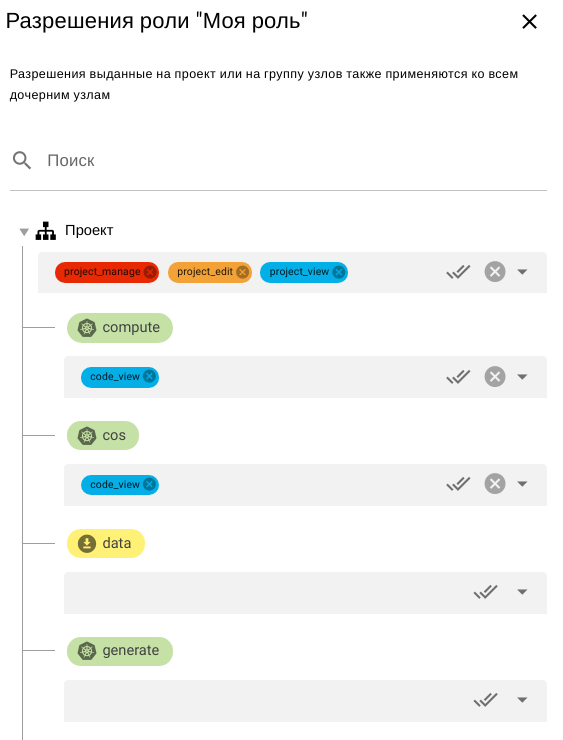
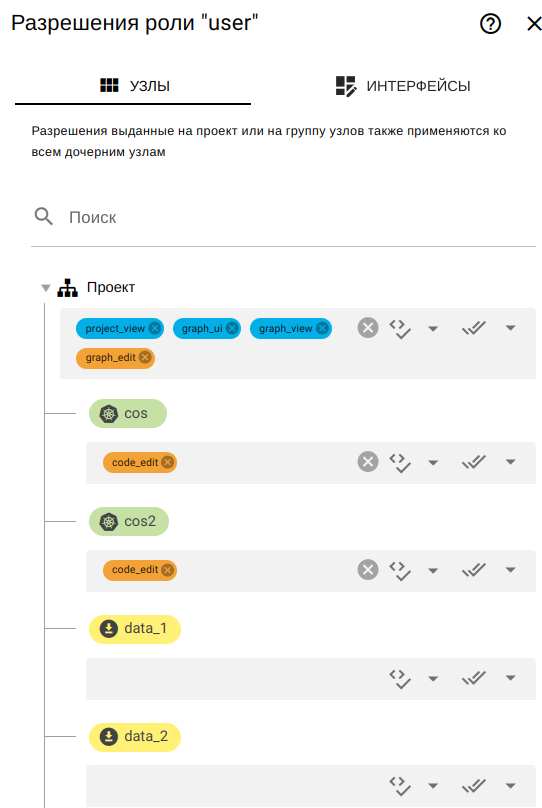
Update permissions info

diff --git a/src/desc/project_role.md b/src/desc/project_role.md
@@ -7,7 +7,62 @@
 ## Структyра панели
 
 - Список [плиток](#плитка-роли) имеющихся ролей
-- <span class="iconify-inline" data-icon="mdi:account-alert"></span> Запросы на получение доступа к платной роли
+- <span class="iconify-inline" data-icon="mdi:account-alert"/> Запросы на получение доступа к платной роли
+
+## Плитка роли
+
+![Resources](/images/common/permissions_role_panel.png)
+
+1. Редактируемое название
+2. Редактируемое описание
+3. Стоимостной коэффициент - редактируемый коэффициент стоимости
+4. <span class="iconify-inline" data-icon="mdi:shield-edit"></span> "РАЗРЕШЕНИЯ" - управления [разрешениями](#типы-разрешении)
+5. <span class="iconify-inline" data-icon="mdi:eye"></span> - переключатель общедоступности
+6. <span class="iconify-inline" data-icon="mdi:currency-usd"></span> - переключатель платности
+7. <span class="iconify-inline" data-icon="mdi:delete"></span> - кнопка удаления роли
+
+## Диалог управления разрешениями
+
+Установка необходимых [типов разрешений](#типы-разрешении) для доступа к проекту, отдельным узлам и интерфейсам.
+
+Вкладки:
+
+- <span class="iconify-inline" data-icon="mdi:view-module"/> Узлы - управление разрешениями для узлов
+- <span class="iconify-inline" data-icon="mdi:view-dashboard-edit"/>Интерфейсы - управление разрешениями для интерфейсов
+
+Вкладка <span class="iconify-inline" data-icon="mdi:view-module"/> Узлы:
+
+![Set permissions](/images/common/permissions_role_set_permissions.png)
+
+- <span class="iconify-inline" data-icon="mdi:magnify"/> Поиск- панель поиска/фильтрации
+- <span class="iconify-inline" data-icon="mdi:sitemap"/> Проект- разрешения уровня проекта
+- Список узлов с разрешениями
+
+Структура панели ввода разрешений:
+
+- Перечень установленных разрешений
+- <span class="iconify-inline" data-icon="mdi:code-tags-check"></span> - кнопка добавления/удаления разрешений по подтипам
+- <span class="iconify-inline" data-icon="mdi:check-all"></span> - кнопка добавления всех возможных разрешений
+- <span class="iconify-inline" data-icon="mdi:close-circle"></span> - кнопка удаления всех установленных разрешений
+- <span class="iconify-inline" data-icon="mdi:menu-down"></span> - меню выбора разрешений
+
+
+Вкладка <span class="iconify-inline" data-icon="mdi:view-dashboard-edit"/>Интерфейсы:
+
+![Set permissions](/images/common/permissions_role_set_permissions_interface.png)
+
+- <span class="iconify-inline" data-icon="mdi:magnify"/> Поиск - панель поиска/фильтрации
+- <span class="iconify-inline" data-icon="mdi:sitemap"/> Проект - разрешения уровня проекта
+- Список интерфейсов с разрешениями
+  > [Cкрытые с панели управления проектом][3] интерфейсы отображаются светло-серым цветом.
+
+Структура панели ввода разрешений:
+
+- Перечень установленных разрешений
+- <span class="iconify-inline" data-icon="mdi:code-tags-check"></span> - кнопка добавления/удаления разрешений для всех интерфейсов
+- <span class="iconify-inline" data-icon="mdi:check-all"></span> - кнопка добавления всех возможных разрешений
+- <span class="iconify-inline" data-icon="mdi:close-circle"></span> - кнопка удаления всех установленных разрешений
+- <span class="iconify-inline" data-icon="mdi:menu-down"></span> - меню выбора разрешений
 
 ## Типы ролей
 
@@ -30,84 +85,105 @@
 
 ## Типы разрешений
 
-- <span style="background-color: blue; color: white">view</span> - просмотр
-- <span style="background-color: orange; color: white">edit</span> - редактирование
-- <span style="background-color: red; color: white">manage</span> - управление
-- <span style="background-color: red; color: white">delete</span> - удаление
+- <span style="background-color: blue; color: white; border-radius: 5px;">&nbsp;view&nbsp;</span> - просмотр
+- <span style="background-color: orange; color: white; border-radius: 5px;">&nbsp;edit&nbsp;</span> - редактирование
+- <span style="background-color: red; color: white; border-radius: 5px;">&nbsp;manage&nbsp;</span> - управление
+- <span style="background-color: red; color: white; border-radius: 5px;">&nbsp;delete&nbsp;</span> - удаление
 
-Элементы проекта, на которые распространяются разрешения:
 
-- проект
-- граф
-- интерфейс
-- код
-- пакеты
+Имеется 3 уровня разрешений:
 
-Имеется 2 уровня разрешений
+- Уровня проекта  - устанавливаются во вкладках <span class="iconify-inline" data-icon="mdi:view-module"/> Узлы и <span class="iconify-inline" data-icon="mdi:view-dashboard-edit"/>Интерфейсы в корневом узле <div><span class="iconify-inline" data-icon="mdi:sitemap"/> Проект.</div>
+- Уровня узла - устанавливаются во вкладке <span class="iconify-inline" data-icon="mdi:view-module"/> Узлы.
+- Уровня интерфейса - устанавливаются во вкладке <span class="iconify-inline" data-icon="mdi:view-dashboard-edit"/> Интерфейсы.
 
-- Уровня проекта
-- Уровня узла
-
-Разрешения уровня проекта:
+<b>Разрешения уровня проекта:</b>
 
 - Проект
-  - project_manage - разрешено управлять ролями, пользователями, секретами, API.
-  - project_edit - разрешено редактировать
-  - project_view - разрешено просматривать
+  - project_view - разрешен доступ к проекту
+  - project_edit - разрешено редактировать свойства проекта, активность проекта, удалять исполнители проекта.
+  - project_manage - разрешено удалять проект, управлять ролями, пользователями, секретами, API, доступ к балансу.
 - Граф
-  - graph_edit - разрешено редактировать
-  - graph_view - разрешено просматривать
+  - graph_ui   - доступна вся информация о структуре графа и разрешен доступ к [графическому интерфейсу][2].
+  - graph_view - доступна разрешенная информацию о структуре графа
+    > Должны быть любые права на код или пакеты соответствующего узла. Права на связь определяются правами на оба ееузла.
+  - graph_edit - доступна возможность создавать новые элементы графа и редактировать разрешенную структуру графа
+    > Должны быть права code_edit на соответствующий узел. Для связи правa code_edit должны быть для обоих узлов.
 - Код
-  - code_edit - разрешено редактировать
-  - code_view - разрешено просматривать
+  - code_edit - разрешено редактировать код всех узлов
+  - code_view - разрешено просматривать код всех узлов
 - Интерфейс
-  - interface_edit - разрешено редактировать
-  - interface_view - разрешено просматривать/использовать
+  - interface_manage - управление разрешенными интерфейсами, разрешено создание новых интерфейсов
+- Пакеты
+  - package_view - разрешено просматривать пакеты во всех узлах
+  - package_create - разрешено создавать пакеты во всех узлах
+  - package_delete - разрешено удалять пакеты во всех узлах
+
+<b>Разрешения уровня узла:</b>
+
+- Код
+  - code_edit - разрешено редактировать код, секреты и другие параметы узла.
+  - code_view - разрешено просматривать код, секреты.
 - Пакеты
   - package_create - разрешено создавать
   - package_delete - разрешено удалять
   - package_view - разрешено просматривать
 
-Разрешения уровня узла:
+<b>Разрешения уровня интерфейса:</b>
 
-- Код
-  - code_edit - разрешено редактировать
-  - code_view - разрешено просматривать
-- Интерфейс
-  - interface_edit - разрешено редактировать
-  - interface_view - разрешено просматривать/использовать
-- Пакеты
-  - package_create - разрешено создавать
-  - package_delete - разрешено удалять
-  - package_view - разрешено просматривать
+ - view - разрешен доступ
+ - edit - разрешен доступ и редактирование интерфейса
+ - delete - разрешен доступ и удаление интерфейса
 
 В зависимости от имеющихся разрешений пользователь получает доступ к тем или иным элементам и функциям.
 
-Например, для получения доступа к тем или иным вкладкам панели узла необходимо предоставлять следующие разрешения:
+<b>Доступ к вкладкам узла:</b>
 
-- Вкладка "[Параметры][2]"  - package_create
-- Вкладка "[Контейнер][3]" - сode_view
-- Вкладка "[Пакеты][4]"  - package_view
-- Вкладка "[Задания][5]"  - package_create и package_view
-- Вкладка "[Файлы][6]"  - сode_view
-- Вкладка "[Запрос][7]"  - сode_view
+У узла должны быть разрешения ниже.
 
-## Плитка роли
+- Вкладка [Параметры][4] - package_create
+- Вкладка [Контейнер][5]- сode_view
+- Вкладка [Пакеты][6] - package_view
+- Вкладка [Задания][7] - package_create и package_view
+- Вкладка [Файлы][8] - сode_view
+- Вкладка [Запрос][9] - сode_view
 
-![Resources](/images/common/permissions_role_panel.png)
 
-1. Редактируемое название
-2. Редактируемое описание
-3. Стоимостной коэффициент - редактируемый коэффициент стоимости
-4. <span class="iconify-inline" data-icon="mdi:shield-edit"></span> "РАЗРЕШЕНИЯ" - управления [разрешениями](#типы-разрешении)
-5. <span class="iconify-inline" data-icon="mdi:eye"></span> - переключатель общедоступности
-6. <span class="iconify-inline" data-icon="mdi:currency-usd"></span> - переключатель платности
-7. <span class="iconify-inline" data-icon="mdi:delete"></span> - кнопка удаления роли
+<b>Управление другими возможностями:</b>
+
+- Узел
+  - Создание - graph_edit, code_edit на уровне проекта
+  - Удаление - graph_edit, code_edit и package_delete на уровне проекта или узла
+  - Активация - graph_edit, package_create
+  - Информация о исполнителе - package_create или code_view.
+- Связи между узлами
+  - Создание - graph_edit, code_edit у каждого из узлов
+  - Удаление - graph_edit, code_edit у каждого из узлов
+- Слой данных
+  - Создания - package_create на уровне проекта
+  - Удаления - package_delete на уровне проекта
+- Импорт проекта - graph_edit, interface_manage, code_edit на уровне проекта
+- Экспорт проекта - graph_ui и code_view или code_edit на уровне проекта
+- Доступ к Git странице - project_edit, graph_ui, graph_edit, interface_manage, code_edit на уровне проекта
+
+::: tip <span class="iconify" data-icon="mdi:information" style="color: #42b983; font-size: 24px;"></span>
+Для [владельцев][10] рабочего пространства ограничений нет.
+:::
+
+::: warning <span class="iconify" data-icon="emojione-v1:warning" style="color: #e7c000; font-size: 24px;"></span>
+Если пользователь, создавший интерфейс, не является администратором или владельцем рабочего пространства, то всем ролям, к которому принадлежит данный пользователь будут даны полные права на этот интерфейс.
+:::
+
 
 [1]: ./project.md#слои-данных
-[2]: ./nodes.html#параметры
-[3]: ./nodes.html#контеинер
-[4]: ./nodes.html#пакеты
-[5]: ./nodes.html#задания
-[6]: ./nodes.html#фаилы
-[7]: ./nodes.html#запрос
+[2]: ./project.md#граф
+[3]: ./interface.md#плитка-интерфеиса
+[4]: ./nodes.md#параметры
+[5]: ./nodes.md#контеинер
+[6]: ./nodes.md#пакеты
+[7]: ./nodes.md#задания
+[8]: ./nodes.md#фаилы
+[9]: ./nodes.md#запрос
+[10]: ./workspace.html#участники
+
+

diff --git a/src/instructions/role.md b/src/instructions/role.md
@@ -10,22 +10,10 @@
 
 ### Установить разрешения
 
-На [плитке роли][1] нажать на кнопку <span class="iconify-inline" data-icon="mdi:shield-edit"></span> **РАЗРЕШЕНИЯ** и в диалоговом окне установить необходимые [типы разрешений][2] для доступа к проекту и/или отдельным узлам.
+На [плитке роли][1] нажать на кнопку <span class="iconify-inline" data-icon="mdi:shield-edit"></span> **РАЗРЕШЕНИЯ** и в диалоговом [окне][4] установить необходимые [типы разрешений][2] для доступа к проекту, отдельным узлам и интерфейсам.
 
 ![Set permissions](/images/common/permissions_role_set_permissions.png)
 
-Структура:
-
-- <span class="iconify-inline" data-icon="mdi:magnify"></span> Панель поиска
-- <span class="iconify-inline" data-icon="mdi:sitemap"></span> Разрешения проекта
-- Список узлов с разрешениями
-
-Структура панели ввода разрешений:
-
-- Перечень установленных разрешений
-- <span class="iconify-inline" data-icon="mdi:check-all"></span> Кнопка добавления всех возможных разрешений
-- <span class="iconify-inline" data-icon="mdi:close-circle"></span> Кнопка удаления всех установленных разрешений
-- <span class="iconify-inline" data-icon="mdi:menu-down"></span> Меню выбора разрешений
 
 ## Запрос платной роли
 
@@ -62,3 +50,4 @@
 [1]: /docs/desc/project_role.md#плитка-роли
 [2]: /docs/desc/project_role.md#типы-разрешении
 [3]: /docs/desc/project.md#слои-данных
+[4]: /docs/desc/project_role.md#диалог-управления-разрешениями

diff --git a/src/desc/interface.md b/src/desc/interface.md
@@ -26,7 +26,7 @@
 2. Редактируемая иконка интерфейса, с которой интерфейс отображается в [панели управления проектом][4].
 3. Редактируемое название
 4. Редактируемое описание
-5. <span class="iconify-inline" data-icon="bi:toggle2-off"></span> Переключатель видимости - позволяет скрыть интерфейс от пользователей проекта
+5. <span class="iconify-inline" data-icon="bi:toggle2-off"></span> Переключатель видимости - позволяет убрать интерфейс с панели управления проектом
 6. <span class="iconify-inline" data-icon="mdi:image"></span>ВЫБЕРИТЕ ЛОГОТИП - изменения логотипа
 7. <span class="iconify-inline" data-icon="mdi:delete"></span> Удаление интерфейса
 8. <span class="iconify-inline" data-icon="mdi:view-dashboard"></span> [Редактор интерфейса](#редактор)
